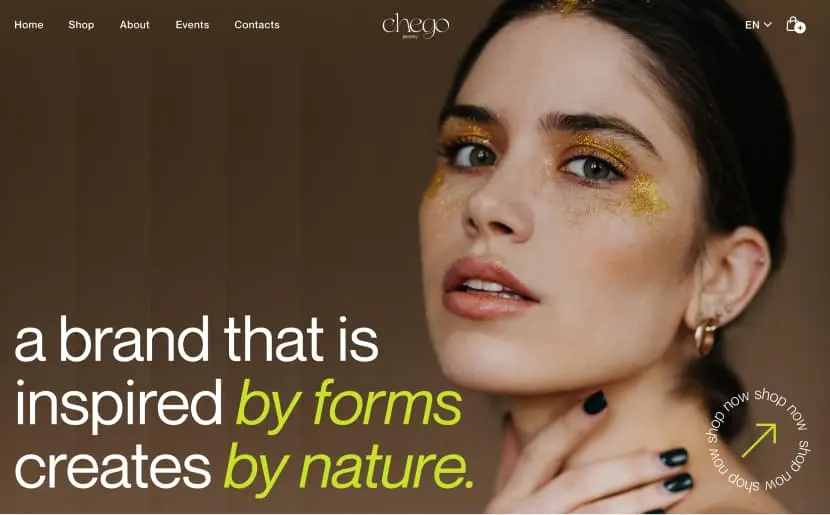
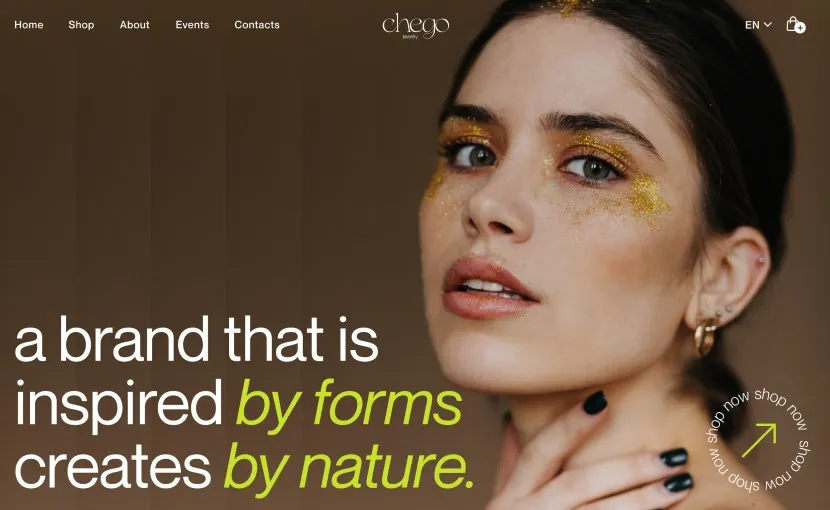
Cover-img

diff --git a/src/css/covers.css b/src/css/covers.css
@@ -4,16 +4,21 @@
 *::after {
     box-sizing: border-box;
 }
-.container .cover-container {
+.container.cover-container {
     padding-left: 0;
-    padding-right: 0;
-    max-width: 100%;
+    padding-right: 0;    
     background-size: cover;
     background-repeat: no-repeat;
     background-attachment: fixed;
     background-image: url(../img/cover/fon-mob@1x.webp);
 }
-
+@media (min-device-pixel-ratio: 2),
+(min-resolution: 192dpi),
+(min-resolution: 2dppx) {
+    .container.covers-container {
+        background-image: url(../img/cover/fon-mob@2x.webp);
+    }
+}
 .content {
     position: relative;
     box-sizing: border-box;
@@ -26,7 +31,12 @@
     width: 282px;
     height: 163px;
 }
-
+.marquee {
+    position: absolute;
+    right: -800px;
+    left: 0;
+    overflow: hidden;
+}
 .marquee-inner {
     display: flex;
     transform: rotate(18deg);
@@ -43,75 +53,6 @@
     animation-duration: 25s;
   
 }
-
-@media screen and (min-width: 768px) {
-    .content {
-        min-width: 768px;
-        height: 960px;
-    }
-
-    .covers-img img {
-        width: 544px;
-        height: 314px;
-    }
-
-    .marquee-inner {
-        margin-bottom: 50px;
-    }
-
-    .section-cover .marquee-line {
-        margin-right: 50px;
-    }
-}
-
-@media screen and (min-width: 1440px) {
-    .content {
-        min-width: 1400px;
-    }
-}
-
-.marquee {
-    position: absolute;
-    right: -800px;
-    left: 0;
-    overflow: hidden;
-}
-
-@media screen and (min-width: 768px) {
-    .content {
-        min-width: 768px;
-        height: 960px;
-    }
-
-    .covers-img img {
-        width: 544px;
-        height: 314px;
-    }
-
-    .marquee-inner {
-        margin-bottom: 50px;
-    }
-
-    .section-cover .marquee-line {
-        margin-right: 50px;
-    }
-}
-
-@media screen and (min-width: 1440px) {
-    .content {
-        min-width: 1400px;
-    }
-}
-
-
-@media (min-device-pixel-ratio: 2),
-(min-resolution: 192dpi),
-(min-resolution: 2dppx) {
-    .container.covers-container {
-        background-image: url(../img/cover/fon-mob@2x.webp);
-    }
-}
-
 @keyframes marqueeLineMove {
     from {
         transform: translateX(-100%);
@@ -145,6 +86,81 @@
 .marquee-inner:nth-child(5) .marquee-line {
     animation-delay: -5s;
 }
+
+@media screen and (min-width: 768px) {
+    .content {
+        min-width: 768px;
+        height: 960px;
+    }
+
+    .covers-img img {
+        width: 544px;
+        height: 314px;
+    }
+
+    .marquee-inner {
+        margin-bottom: 50px;
+    }
+
+    .section-cover .marquee-line {
+        margin-right: 50px;
+    }
+        .container.covers-container {
+            background-image: url(../img/cover/fon-tab@1x.webp);
+        }
+    
+        @media (min-device-pixel-ratio: 2),
+        (min-resolution: 192dpi),
+        (min-resolution: 2dppx) {
+        .container.covers-container {
+            background-image: url(../img/cover/fon-tab@2x.webp);}
+    
+}
+}
+
+@media screen and (min-width: 1440px) {
+    .content {
+        min-width: 1440px;
+    }
+    .container.covers-container {
+        background-image: url(../img/cover/fon-desktop@1x.webp);
+         }
+    
+        @media (min-device-pixel-ratio: 2),
+         (min-resolution: 192dpi),
+         (min-resolution: 2dppx) {
+    .container.covers-container {
+        background-image: url(../img/cover/fon-desktop@2x.webp);
+         }
+    
+}
+}
+
+@media screen and (min-width: 768px) {
+    .content {
+        min-width: 768px;
+        height: 960px;
+    }
+
+    .covers-img img {
+        width: 544px;
+        height: 314px;
+    }
+
+    .marquee-inner {
+        margin-bottom: 50px;
+    }
+
+    .section-cover .marquee-line {
+        margin-right: 50px;
+    }
+       
+}
+
+
+
+
+
 
 
 
